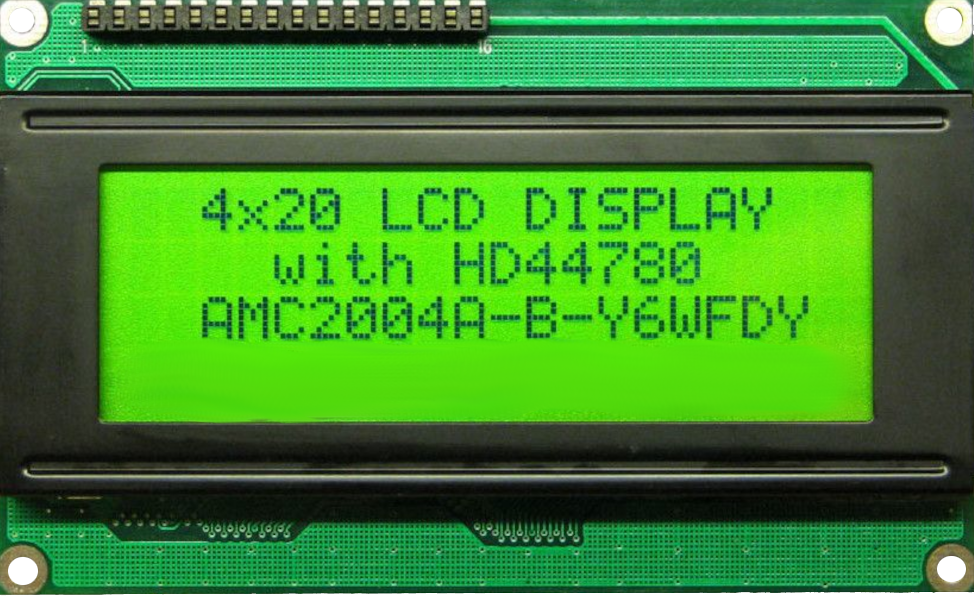
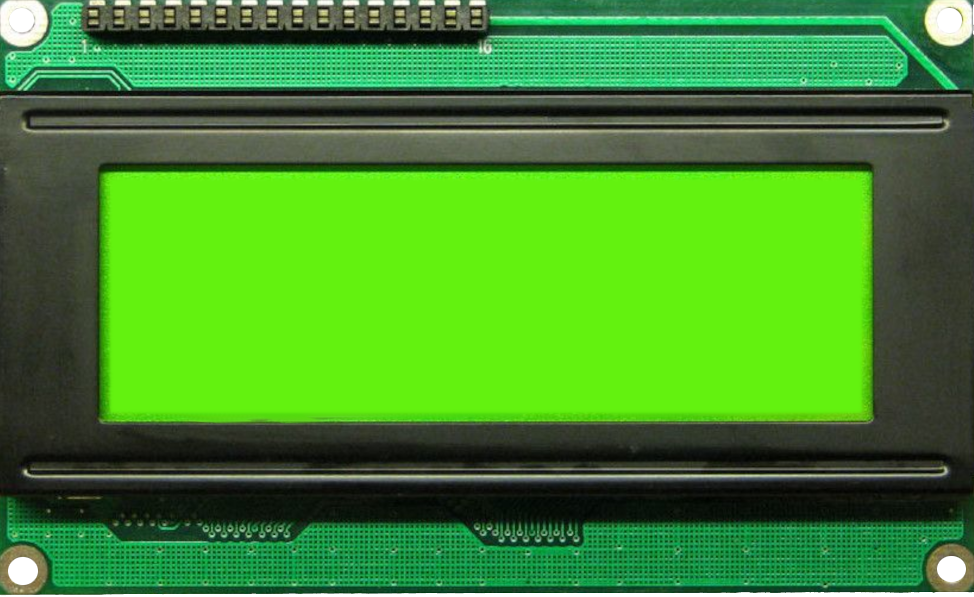
rpii2c: hd44780: preview

Changed region(s): [[0.0924, 0.3015, 0.8932, 0.6935], [0.8008, 0.3618, 0.8932, 0.4221]]

diff --git a/riocore/gui/plugins.py b/riocore/gui/plugins.py
@@ -37,10 +37,10 @@ class GuiPlugins:
     def __init__(self, parent):
         self.parent = parent
 
-    def edit_plugin_pins(self, plugin_instance, plugin_config, pin_selected=None):
+    def edit_plugin_pins(self, plugin_instance, plugin_config, pin_selected=None, cb=None):
         def update(arg):
-            pass
-            # print("#update", arg, plugin_config)
+            if cb:
+                cb(arg)
 
         myFont = QFont()
         myFont.setBold(True)
@@ -164,10 +164,12 @@ class GuiPlugins:
 
         return pins_tab
 
-    def edit_plugin_joints(self, plugin_instance, plugin_config):
+    def edit_plugin_joints(self, plugin_instance, plugin_config, cb=None):
         def update(arg):
             if hasattr(self.parent, "draw_joint_home"):
                 svgWidget.load(self.parent.draw_joint_home(joints_setup, joint_options))
+            if cb:
+                cb(arg)
 
         myFont = QFont()
         myFont.setBold(True)
@@ -280,10 +282,10 @@ class GuiPlugins:
 
         return joint_tabs
 
-    def edit_plugin_signals(self, plugin_instance, plugin_config, signal_selected=None):
+    def edit_plugin_signals(self, plugin_instance, plugin_config, signal_selected=None, cb=None):
         def update(arg):
-            pass
-            # print("#update", arg, plugin_config)
+            if cb:
+                cb(arg)
 
         def toggleGroup(ctrl):
             state = ctrl.isChecked()
@@ -466,10 +468,13 @@ class GuiPlugins:
         signals_tab.setWidget(signals_widget)
         return signals_tab
 
-    def edit_plugin_options(self, plugin_instance, plugin_config):
+    def edit_plugin_options(self, plugin_instance, plugin_config, cb=None):
         def update(arg):
             plugin_instance.update_title()
-            iname_label.setText(plugin_instance.title)
+            title_label.setText(plugin_instance.title)
+            iname_label.setText(plugin_instance.instances_name)
+            if cb:
+                cb(arg)
 
         myFont = QFont()
         myFont.setBold(True)
@@ -530,7 +535,7 @@ class GuiPlugins:
         options_tab.setWidget(options_widget)
         return options_tab
 
-    def edit_plugin(self, plugin_instance, widget, is_new=False, nopins=False, signal_selected=None, pin_selected=None):
+    def edit_plugin(self, plugin_instance, widget, is_new=False, nopins=False, signal_selected=None, pin_selected=None, cb=None):
         plugin_config = plugin_instance.plugin_setup
         plugin_config_backup = copy.deepcopy(plugin_config)
 
@@ -556,24 +561,24 @@ class GuiPlugins:
             if "position" in plugin_instance.SIGNALS:
                 plugin_config["is_joint"] = True
 
-        options_tab = self.edit_plugin_options(plugin_instance, plugin_config)
+        options_tab = self.edit_plugin_options(plugin_instance, plugin_config, cb=cb)
         if signal_selected is None and pin_selected is None:
             tab_widget.addTab(options_tab, "Plugin")
 
         if not nopins and plugin_instance.PINDEFAULTS:
-            pins_tab = self.edit_plugin_pins(plugin_instance, plugin_config, pin_selected=pin_selected)
+            pins_tab = self.edit_plugin_pins(plugin_instance, plugin_config, pin_selected=pin_selected, cb=cb)
             if signal_selected is None:
                 tab_widget.addTab(pins_tab, "Pins")
                 if is_new:
                     tab_widget.setCurrentWidget(pins_tab)
 
         if plugin_instance.TYPE == "joint" and plugin_config.get("is_joint", False):
-            joint_tab = self.edit_plugin_joints(plugin_instance, plugin_config)
+            joint_tab = self.edit_plugin_joints(plugin_instance, plugin_config, cb=cb)
             if pin_selected is None:
                 tab_widget.addTab(joint_tab, "Joint")
         if plugin_instance.TYPE != "interface":
             if plugin_instance.SIGNALS:
-                signals_tab = self.edit_plugin_signals(plugin_instance, plugin_config, signal_selected=signal_selected)
+                signals_tab = self.edit_plugin_signals(plugin_instance, plugin_config, signal_selected=signal_selected, cb=cb)
                 if pin_selected is None:
                     tab_widget.addTab(signals_tab, "Signals")
                     if signal_selected is not None:

diff --git a/riocore/plugins/rpii2c/plugin.py b/riocore/plugins/rpii2c/plugin.py
@@ -1,7 +1,10 @@
 import re
 from riocore.plugins import PluginBase
 
-fmt_pattern = re.compile(r"\{(?P<val>[a-z0-9]*)[:a-z0-9\.]*\}")
+from PyQt5.QtCore import Qt, QRectF
+from PyQt5.QtGui import QFont
+
+fmt_pattern = re.compile(r"\{(?P<val>[a-z0-9_-]*):(?P<fmt>[0-9\.]*)(?P<type>[a-z])\}")
 
 
 class Plugin(PluginBase):
@@ -48,6 +51,9 @@ class Plugin(PluginBase):
                 "description": "slave address",
             },
         }
+        self.update()
+
+    def update(self):
         device = self.plugin_setup.get("device", self.option_default("device"))
         self.IMAGE = f"{device}.png"
         if device == "pcf8574":
@@ -85,11 +91,18 @@ class Plugin(PluginBase):
             fmtstring = self.plugin_setup.get("fmt", self.option_default("fmt"))
             names = fmt_pattern.findall(fmtstring)
             if names is not None:
-                for val_n, name in enumerate(sorted(set(names))):
+                for val_n, parts in enumerate(sorted(set(names))):
+                    name = parts[0]
+                    vfmt = parts[1]
+                    vtype = parts[2]
                     self.SIGNALS[name] = {
                         "direction": "output",
                         "pos": [930, 135 + val_n * 24],
                     }
+                    if vfmt == "1" and vtype == "d":
+                        self.SIGNALS[name]["bool"] = True
+                    elif vtype == "d":
+                        self.SIGNALS[name]["u32"] = True
 
         elif device == "ads1115":
             self.SIGNALS = {}
@@ -100,6 +113,33 @@ class Plugin(PluginBase):
                     "unit": "V",
                     "pos": [152, 30 + channel * 24],
                 }
+
+    def paint_overlay(self, painter):
+        device = self.plugin_setup.get("device", self.option_default("device"))
+        if device == "hd44780":
+            fmtstring = self.plugin_setup.get("fmt", self.option_default("fmt"))
+            fmtstring = fmtstring.replace("\\n", "|").replace("\n", "|")
+            names = fmt_pattern.findall(fmtstring)
+            values = {}
+            for val_n, parts in enumerate(sorted(set(names))):
+                name = parts[0]
+                vfmt = parts[1]
+                vtype = parts[2]
+                if vfmt == "1" and vtype == "d":
+                    values[name] = True
+                elif vtype == "d":
+                    values[name] = 0
+                else:
+                    values[name] = 0.0
+
+            painter.setFont(QFont("Monospace", 17))
+            for ln, formatstr in enumerate(fmtstring.split("|")):
+                text = formatstr.format(**values)
+                painter.drawText(
+                    QRectF(63.0, 80.0 + ln * 30, 400, 100),
+                    Qt.AlignmentFlag.AlignLeft,
+                    text,
+                )
 
     def update_prefixes(cls, instances):
         for instance in instances:

diff --git a/riocore/plugins/rpii2c/rpii2c.py b/riocore/plugins/rpii2c/rpii2c.py
@@ -15,7 +15,7 @@ import time
 import hal
 import smbus
 
-fmt_pattern = re.compile(r"\{(?P<val>[a-z0-9]*)[:a-z0-9\.]*\}")
+fmt_pattern = re.compile(r"\{(?P<val>[a-z0-9_-]*):(?P<fmt>[0-9\.]*)(?P<type>[a-z])\}")
 
 
 class hd44780:
@@ -110,9 +110,23 @@ for config in configs:
     elif device == "hd44780":
         names = fmt_pattern.findall(cfgstring)
         if names is not None:
-            devices[instance]["keys"] = set(names)
-            for name in set(names):
-                h.newpin(f"{instance}.{name}", hal.HAL_FLOAT, hal.HAL_IN)
+            vdict = {}
+            keys = set()
+            for val_n, parts in enumerate(sorted(set(names))):
+                vdict[parts[0]] = parts
+                keys.add(parts[0])
+            devices[instance]["keys"] = keys
+            for parts in vdict.values():
+                name = parts[0]
+                vfmt = parts[1]
+                vtype = parts[2]
+                print(vfmt, vtype)
+                if vfmt == "1" and vtype == "d":
+                    h.newpin(f"{instance}.{name}", hal.HAL_BIT, hal.HAL_IN)
+                elif vtype == "d":
+                    h.newpin(f"{instance}.{name}", hal.HAL_U32, hal.HAL_IN)
+                else:
+                    h.newpin(f"{instance}.{name}", hal.HAL_FLOAT, hal.HAL_IN)
 
     elif device == "ads1115":
         for an in range(4):
@@ -167,6 +181,7 @@ while True:
                 values = {}
                 for key in devices[instance]["keys"]:
                     values[key] = h[f"{instance}.{key}"]
+                cfgstring = cfgstring.replace("\\n", "|")
                 for ln, formatstr in enumerate(cfgstring.split("|")):
                     text = formatstr.format(**values)
                     devices[instance]["lib"].display(0, ln, text)

diff --git a/riocore/gui/widgets.py b/riocore/gui/widgets.py
@@ -4,7 +4,7 @@ import riocore
 
 from PyQt5 import QtGui, QtSvg
 from PyQt5.QtCore import QRect, Qt, QSize, pyqtSignal
-from PyQt5.QtGui import QStandardItem, QPixmap
+from PyQt5.QtGui import QStandardItem, QPixmap, QFont
 from PyQt5.QtWidgets import (
     QVBoxLayout,
     QFileDialog,
@@ -17,7 +17,7 @@ from PyQt5.QtWidgets import (
     QDoubleSpinBox,
     QSpinBox,
     QLineEdit,
-    QPlainTextEdit,
+    QTextEdit,
 )
 
 riocore_path = os.path.dirname(riocore.__file__)
@@ -370,9 +370,11 @@ class edit_text(QLineEdit):
             self.win.display()
 
 
-class edit_multiline(QPlainTextEdit):
+class edit_multiline(QTextEdit):
     def __init__(self, win, obj, key, cb=None, help_text=None, default=None, mul=0):
         super().__init__()
+        self.setFont(QFont("Monospace"))
+        self.setLineWrapMode(QTextEdit.NoWrap)
         self.win = win
         self.cb = cb
         self.obj = obj
@@ -382,9 +384,9 @@ class edit_multiline(QPlainTextEdit):
         if help_text:
             self.setToolTip(help_text)
         if key in obj:
-            self.setPlainText(str(obj[key]))
+            self.setText(str(obj[key]))
         elif default is not None:
-            self.setPlainText(str(default))
+            self.setText(str(default))
         self.textChanged.connect(self.change)
 
     def change(self):

diff --git a/riocore/generator/LinuxCNC.py b/riocore/generator/LinuxCNC.py
@@ -1253,6 +1253,7 @@ if __name__ == "__main__":
             direction = signal_config["direction"]
             userconfig = signal_config.get("userconfig", {})
             boolean = signal_config.get("bool")
+            u32 = signal_config.get("u32")
             virtual = signal_config.get("virtual")
             mapping = signal_config.get("mapping")
             setp = userconfig.get("setp")
@@ -1323,10 +1324,12 @@ if __name__ == "__main__":
                     section = displayconfig.get("section", "inputs").lower()
                 elif direction == "output":
                     section = displayconfig.get("section", "outputs").lower()
-                if not boolean:
-                    dtype = displayconfig.get("type", "number")
-                else:
+                if boolean:
                     dtype = displayconfig.get("type", "led")
+                elif u32:
+                    dtype = displayconfig.get("type", "number_u32")
+                else:
+                    dtype = displayconfig.get("type", "number")
 
             elif virtual:
                 section = displayconfig.get("section", "virtual").lower()
